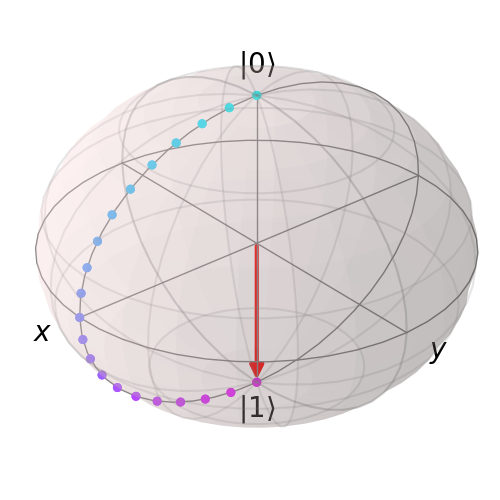
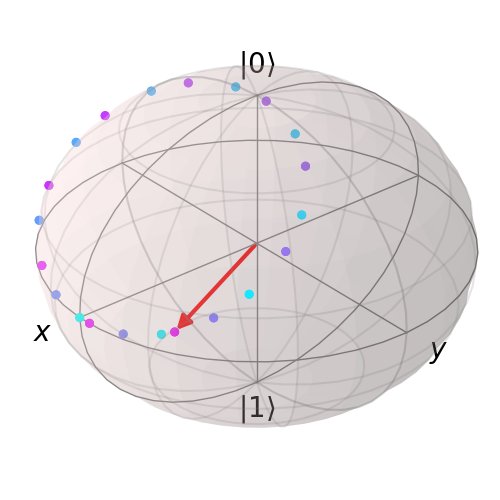
te

diff --git a/anim.py b/anim.py
@@ -1,5 +1,6 @@
 import matplotlib as mpl
 from pylab import *
+import numpy as np
 from qutip import *
 from matplotlib import cm
 import imageio
@@ -39,9 +40,11 @@ def animate_bloch(states, duration=0.1, save_all=False):
 
 def main():
     states = []
-    thetas = linspace(0,pi,21)
-    for theta in thetas:
-        states.append((cos(theta/2)*basis(2,0) + sin(theta/2)*basis(2,1)).unit())
+    x = 1 / (np.sqrt(2))
+    #ts = linspace(0,(pi*x*(1/30)),int((pi*x*(1/3))))
+    ts = linspace(0,pi,21)
+    for t in ts:
+        states.append((np.exp(-3j*t)*((x*cos(3*x*t)- 1j*sin(3*x*t))*basis(2,0) + x*cos(3*x*t)*basis(2,1))).unit())
     animate_bloch(states, duration=0.1, save_all=False)
 
 main()
